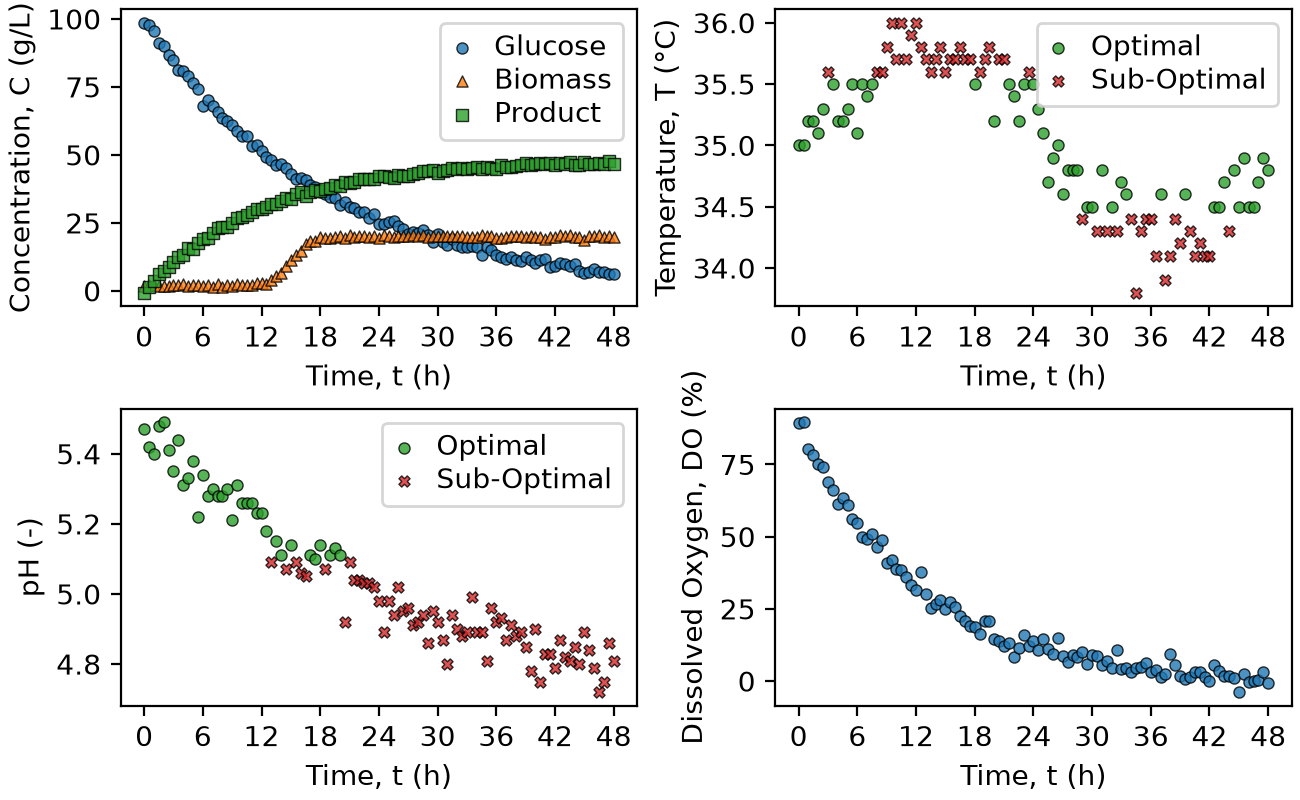
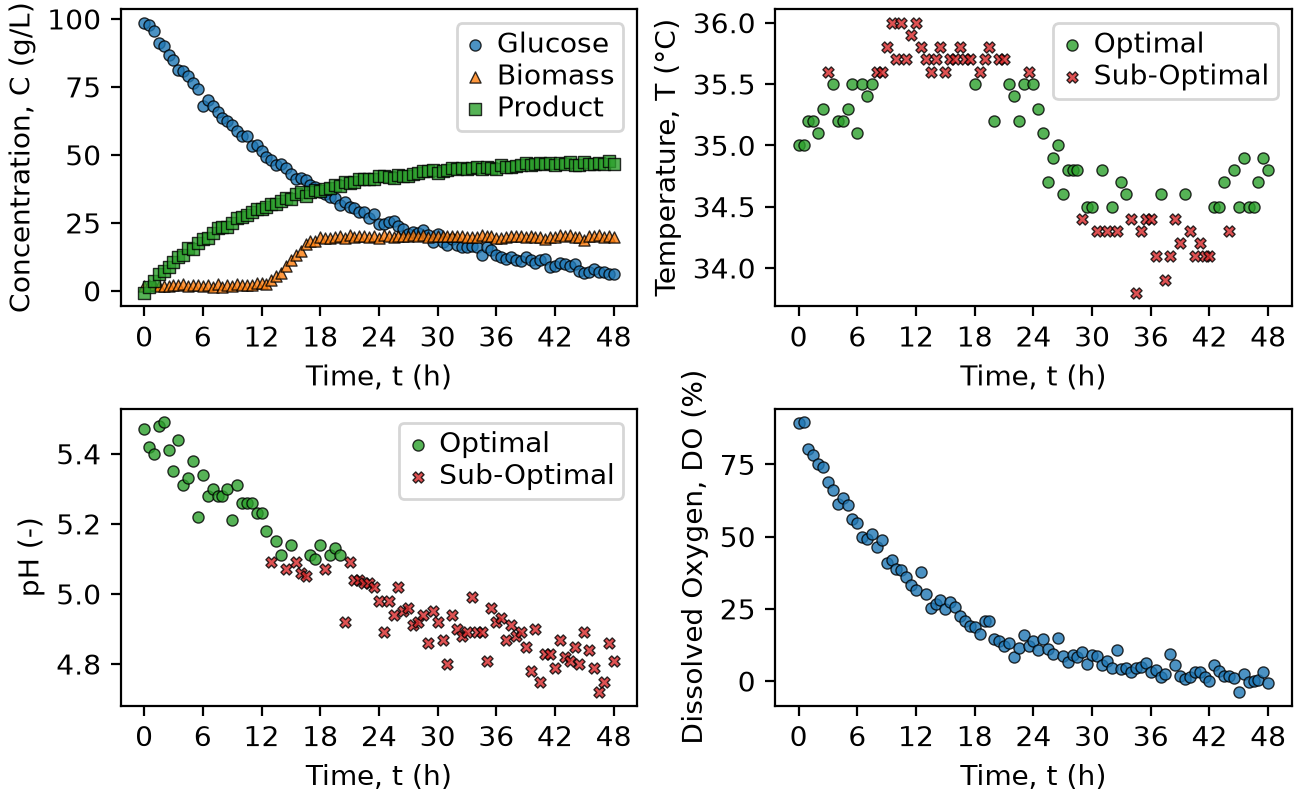
Update project

Changed region(s): [[0.2769, 0.5312, 0.4923, 0.6562], [0.8, 0.0312, 0.9846, 0.1562], [0.3385, 0.0312, 0.4923, 0.1875]]

diff --git a/src/classes.py b/src/classes.py
@@ -276,8 +276,10 @@ class BioprocessMonitor:
 
             if axis.get_legend_handles_labels()[1]:
                 axis.legend(
-                    labelspacing=0.2,
+                    labelspacing=0.15,
                     handlelength=0.75,
+                    handletextpad=0.4,
+                    borderpad=0.3,
                     loc="upper right"
                 )
 
